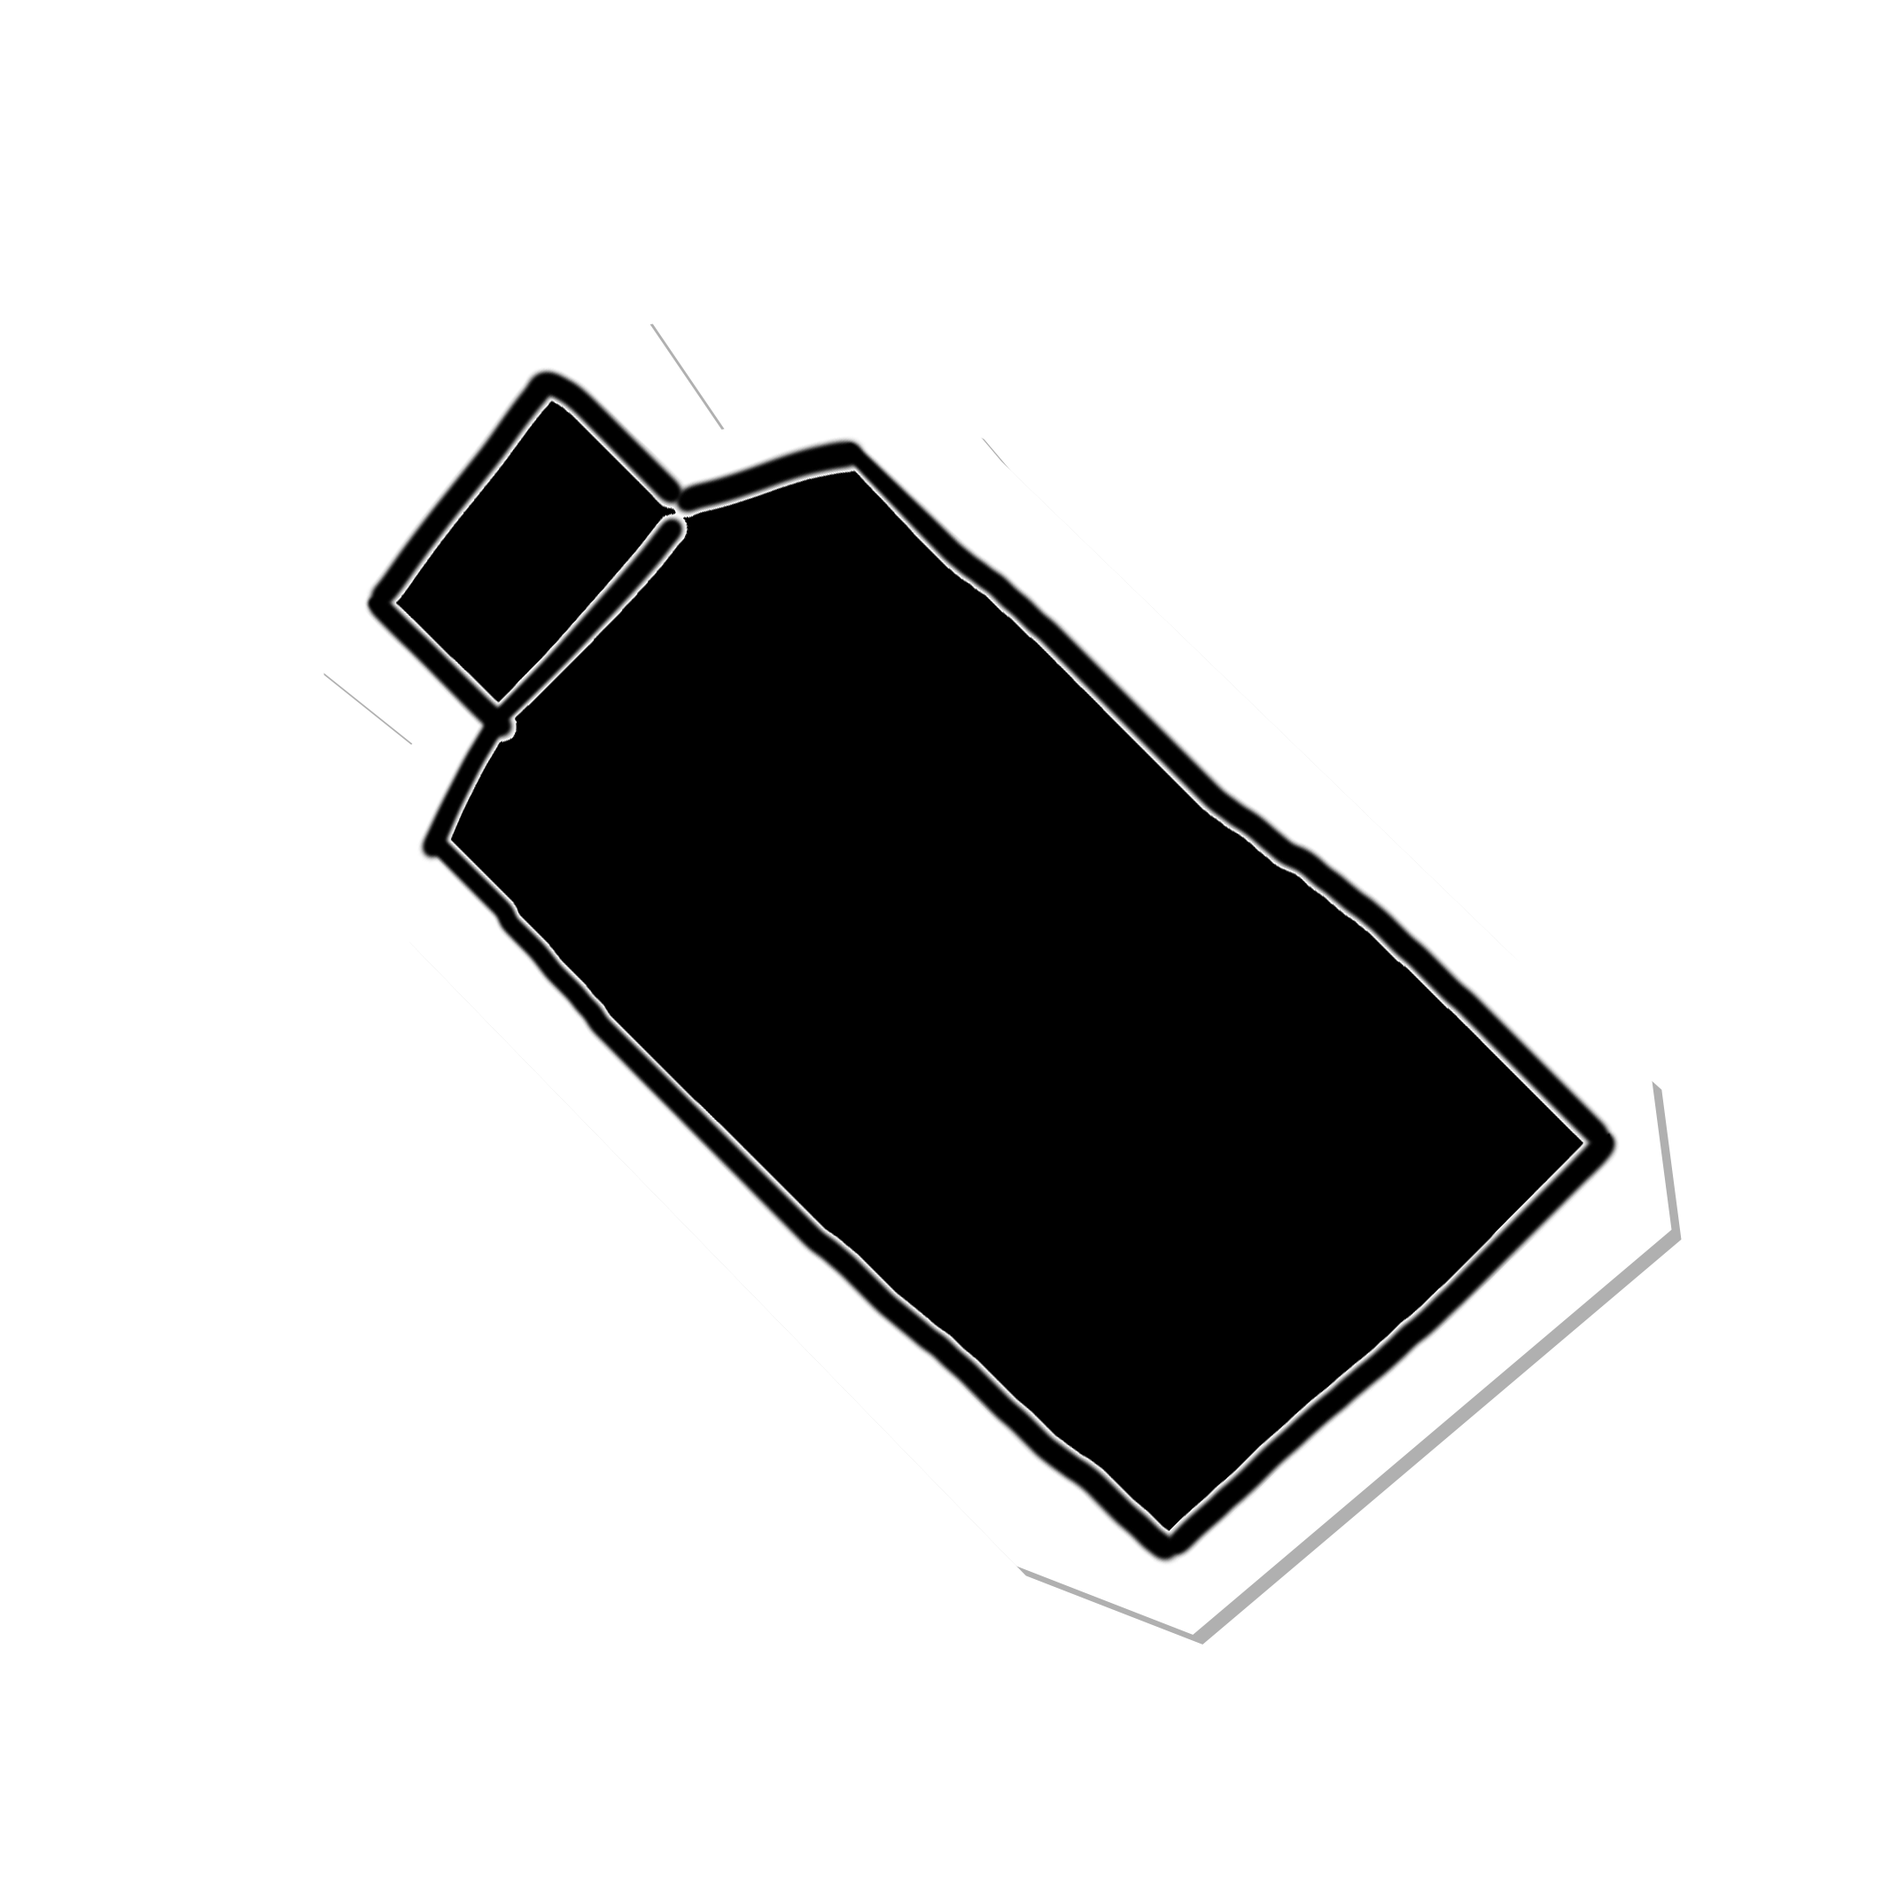
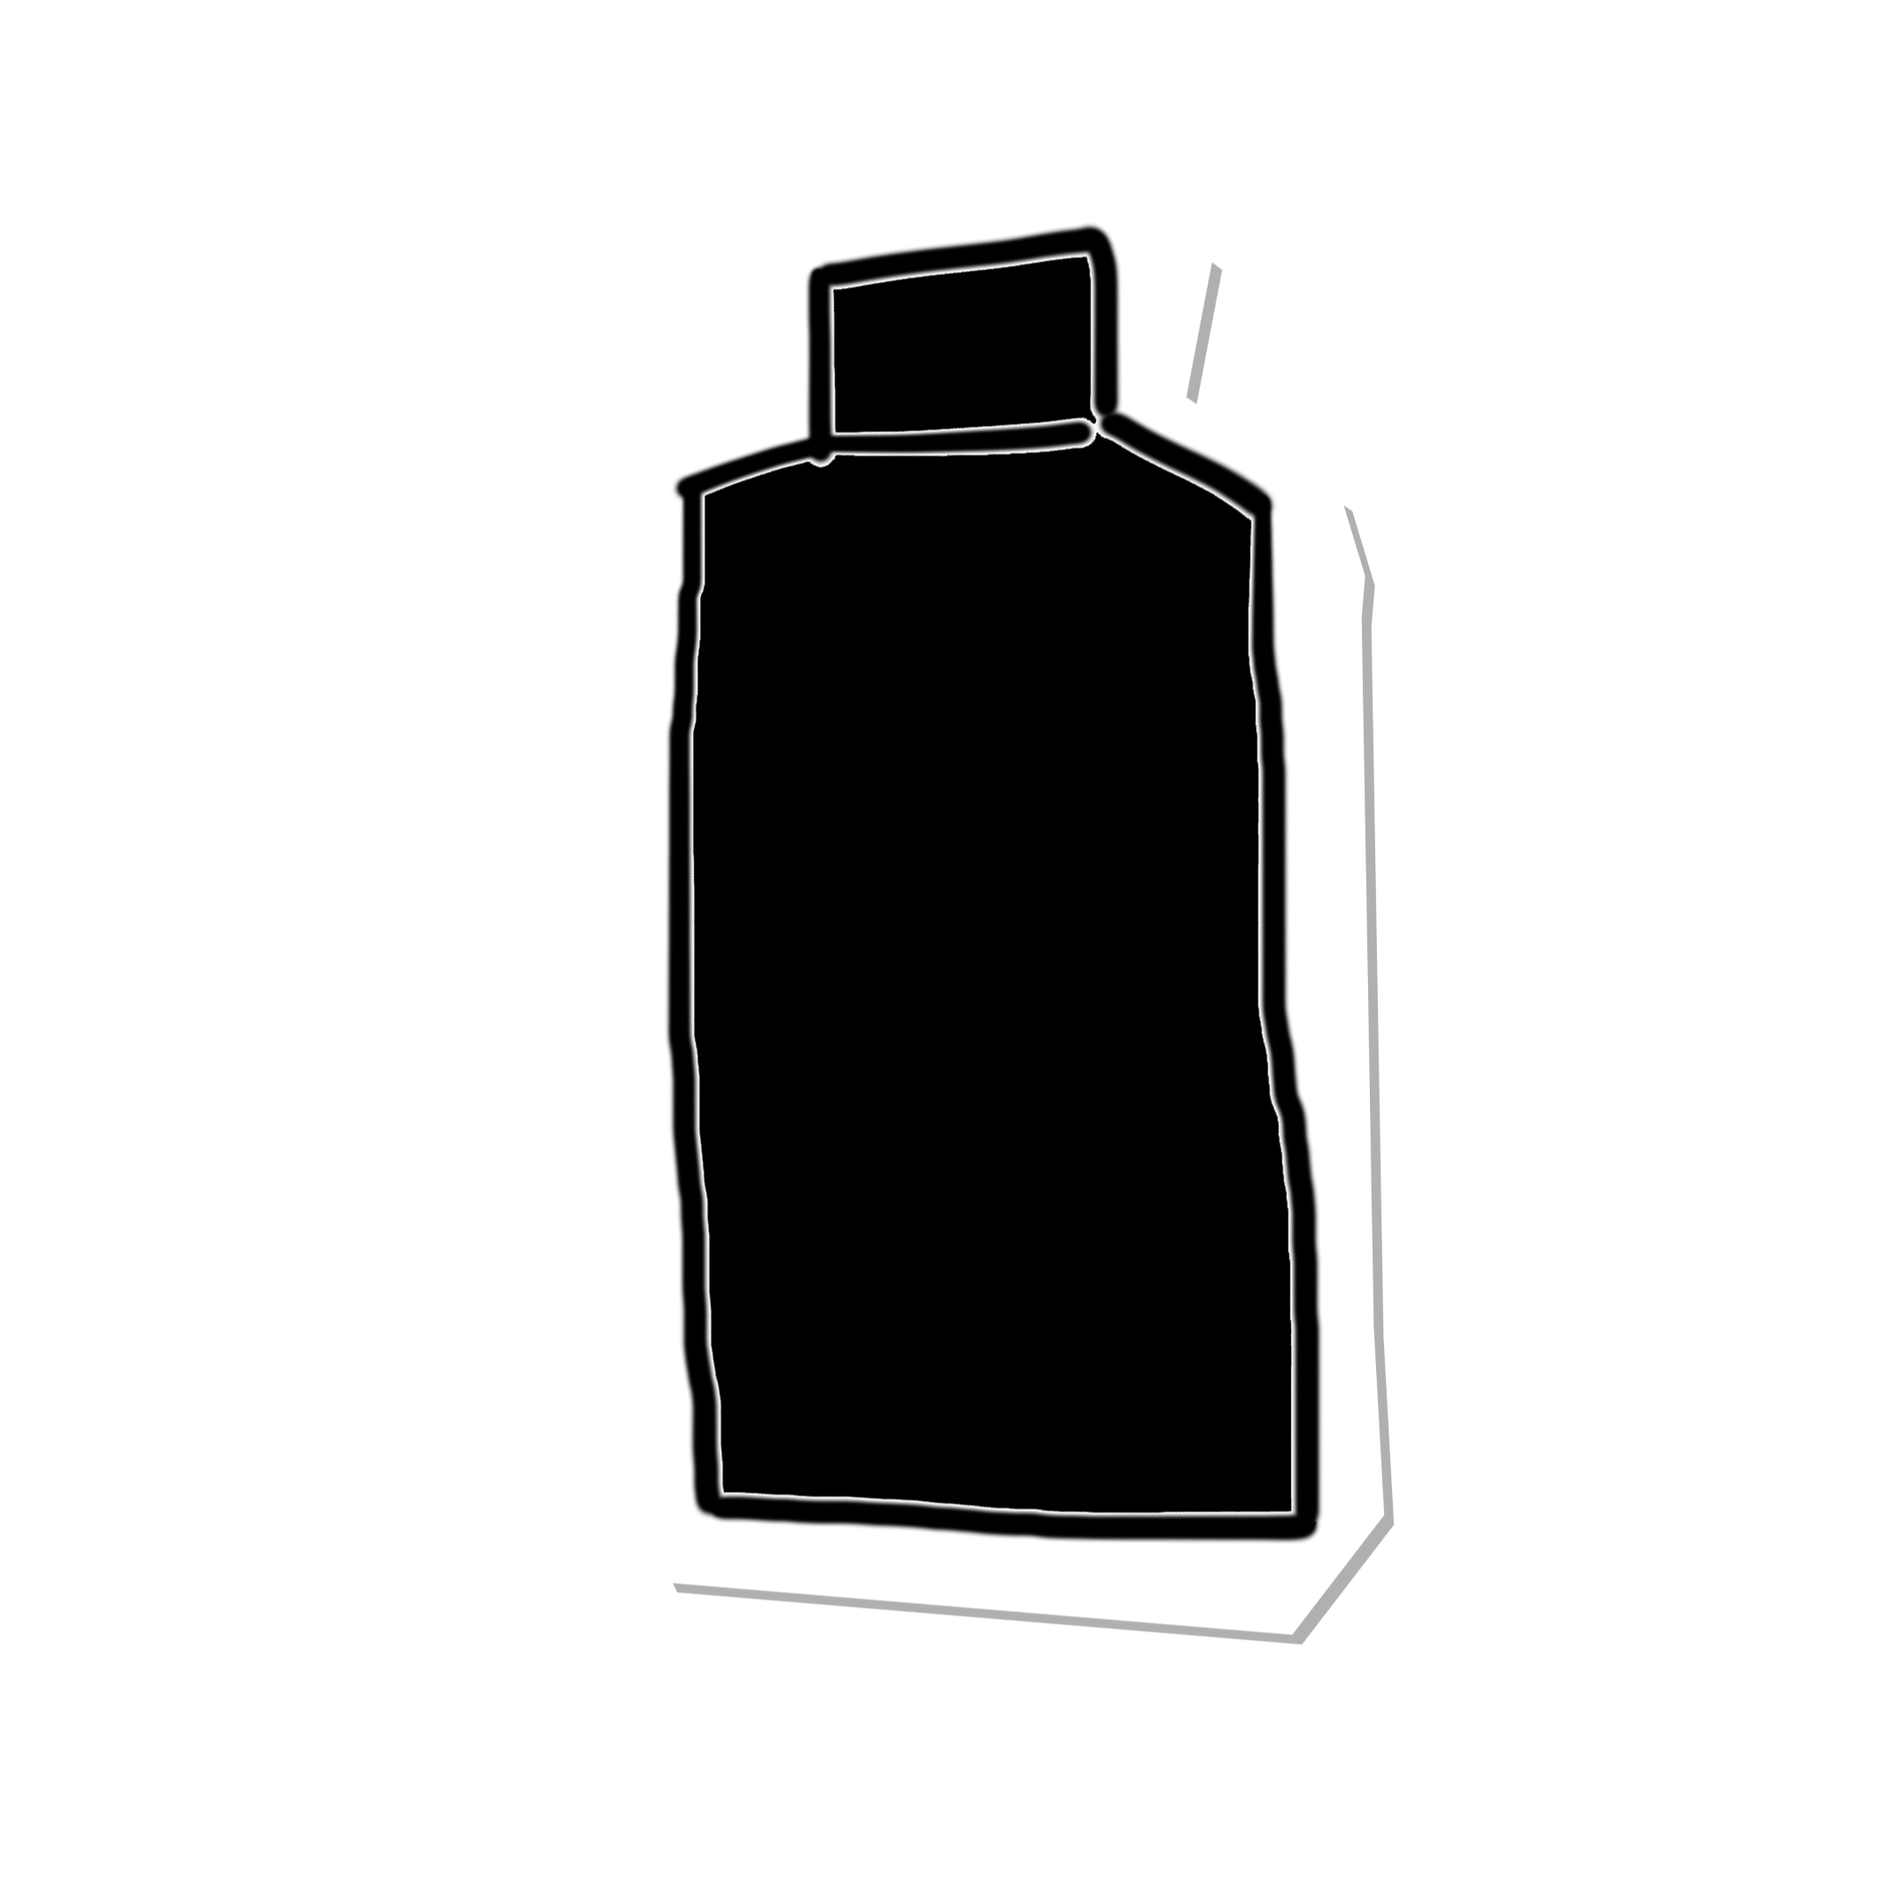
finished look of final UI

Changed region(s): [[0.1857, 0.0928, 0.8973, 0.8664]]

diff --git a/teatime/MainWindow.xaml b/teatime/MainWindow.xaml
@@ -12,28 +12,31 @@
         <Image x:Name="orbits" Height="612" Width="1136" Source="img/orbit-circles.png" Canvas.Left="68" Canvas.Top="60"/>
 
         <Image x:Name="boxy" Height="142" Canvas.Left="565" Canvas.Top="295" Width="142" Source="img/boxy-idle.png"/>
-        <Image x:Name="cursor" Height="142" Canvas.Left="989" Canvas.Top="261" Width="142" RenderTransformOrigin="0.5,0.5" Source="img/tea.png" IsHitTestVisible="False">
-            <Image.RenderTransform>
-                <TransformGroup>
-                    <ScaleTransform/>
-                    <SkewTransform/>
-                    <RotateTransform Angle="45"/>
-                    <TranslateTransform/>
-                </TransformGroup>
-            </Image.RenderTransform>
-        </Image>
+        
         <Image x:Name="btn_s1" Height="32" Canvas.Left="620" Canvas.Top="221" Width="32" Source="img/button-planet.png"/>
         <Image x:Name="btn_s2" Height="32" Canvas.Left="750" Canvas.Top="350" Width="32" Source="img/button-planet.png"/>
         <Image x:Name="btn_s3" Height="32" Canvas.Left="620" Canvas.Top="480" Width="32" Source="img/button-planet.png"/>
         <Image x:Name="btn_s4" Height="32" Canvas.Left="491" Canvas.Top="350" Width="32" Source="img/button-planet.png"/>
+        
         <Image x:Name="btn_m1" Height="32" Canvas.Left="620" Canvas.Top="154" Width="32" Source="img/button-planet.png"/>
         <Image x:Name="btn_m2" Height="32" Canvas.Left="816" Canvas.Top="350" Width="32" Source="img/button-planet.png"/>
         <Image x:Name="btn_m3" Height="32" Canvas.Left="620" Canvas.Top="546" Width="32" Source="img/button-planet.png"/>
         <Image x:Name="btn_m4" Height="32" Canvas.Left="423" Canvas.Top="350" Width="32" Source="img/button-planet.png"/>
+        
         <Image x:Name="btn_l1" Height="32" Canvas.Left="620" Canvas.Top="70" Width="32" Source="img/button-planet.png"/>
         <Image x:Name="btn_l2" Height="32" Canvas.Left="901" Canvas.Top="350" Width="32" Source="img/button-planet.png"/>
         <Image x:Name="btn_l3" Height="32" Canvas.Left="620" Canvas.Top="632" Width="32" Source="img/button-planet.png"/>
         <Image x:Name="btn_l4" Height="32" Canvas.Left="338" Canvas.Top="350" Width="32" Source="img/button-planet.png"/>
 
+        <Image x:Name="cursor" Height="142" Canvas.Left="989" Canvas.Top="261" Width="142" Source="img/tea.png" IsHitTestVisible="False">
+            <Image.RenderTransform>
+                <TransformGroup>
+                    <ScaleTransform/>
+                    <SkewTransform/>
+                    <RotateTransform Angle="0"/>
+                    <TranslateTransform/>
+                </TransformGroup>
+            </Image.RenderTransform>
+        </Image>
     </Canvas>
 </Window>

diff --git a/teatime/MainWindow.xaml.cs b/teatime/MainWindow.xaml.cs
@@ -48,18 +48,23 @@ namespace teatime
           
             holdTime = 0;
 
-            
-
             mainWindow.MouseMove += MainWindow_MouseMove;
             boxy.MouseDown += Boxy_MouseDown;
             boxy.MouseUp += Boxy_MouseUp;
 
             idleTimer.Interval = TimeSpan.FromMilliseconds(1000);
+            BindGuideMouseEvents();
 
         }
 
         private void Boxy_MouseUp(object sender, MouseButtonEventArgs e)
         {
+            Point mousePos = e.GetPosition(this);
+            TransformGroup t = new TransformGroup();
+            t.Children.Add(new RotateTransform(0));
+            t.Children.Add(new TranslateTransform(mousePos.X - Canvas.GetLeft(cursor) - cursor.Width / 4, mousePos.Y - Canvas.GetTop(cursor) - cursor.Height / 4));
+            cursor.RenderTransform = t;
+
             //holdTime = holdTime - (Int32)(DateTime.UtcNow.Subtract(new DateTime(1970, 1, 1))).TotalMilliseconds;
 
             //TODO: drinking animation
@@ -72,11 +77,54 @@ namespace teatime
             if (!started)
             {
                 MakeAllVisible();
+                
             }
 
             // reset all planets
         }
 
+        
+
+        private void MainWindow_MouseMove(object sender, MouseEventArgs e)
+        {
+            
+            Point mousePos = e.GetPosition(this);
+            TranslateTransform transform = new TranslateTransform
+            {
+                X = mousePos.X - Canvas.GetLeft(cursor) - cursor.Width / 4,
+                Y = mousePos.Y - Canvas.GetTop(cursor) - cursor.Height / 4
+            };
+            this.cursor.RenderTransform = transform;
+                
+        }
+
+        private void Boxy_MouseDown(object sender, MouseEventArgs e)
+        {
+            Point mousePos = e.GetPosition(this);
+            teaPouring = true;
+            // holdTime = (Int32)(DateTime.UtcNow.Subtract(new DateTime(1970, 1, 1))).TotalMilliseconds;
+            //clickTimer.Start();
+
+
+            boxy.Source = new BitmapImage(new Uri(@"/img/boxy-pour.png", UriKind.Relative));
+            boxy_status = POURING;
+            TransformGroup t = new TransformGroup();
+            t.Children.Add(new RotateTransform(-45));
+            t.Children.Add(new TranslateTransform(mousePos.X - Canvas.GetLeft(cursor) - cursor.Width / 4, mousePos.Y - Canvas.GetTop(cursor) - cursor.Height / 4));
+            cursor.RenderTransform = t;
+            // play sound of pouring
+            //pouring animation that loops
+        }
+
+        private void UpdatePlanets()
+        {
+
+        }
+
+        private class Planet : Image
+        {
+
+        }
         private void MakeAllVisible()
         {
             space.Visibility = Visibility.Visible;
@@ -98,43 +146,6 @@ namespace teatime
             btn_l4.Visibility = Visibility.Visible;
             started = true;
         }
-
-        private void MainWindow_MouseMove(object sender, MouseEventArgs e)
-        {
-            Point mousePos = e.GetPosition(this);
-            TranslateTransform transform = new TranslateTransform
-            {
-                X = mousePos.X - Canvas.GetLeft(cursor) - cursor.Width / 4,
-                Y = mousePos.Y - Canvas.GetTop(cursor) - cursor.Height / 4
-            };
-            this.cursor.RenderTransform = transform;
-        }
-
-       
-        
-
-        private void Boxy_MouseDown(object sender, MouseEventArgs e)
-        {
-            teaPouring = true;
-            // holdTime = (Int32)(DateTime.UtcNow.Subtract(new DateTime(1970, 1, 1))).TotalMilliseconds;
-            //clickTimer.Start();
-
-
-            boxy.Source = new BitmapImage(new Uri(@"/img/boxy-pour.png", UriKind.Relative));
-            boxy_status = POURING;
-            //continuously play sound of pouring
-        }
-
-        private void UpdatePlanets()
-        {
-
-        }
-
-        private class Planet : Image
-        {
-
-        }
-
         private void HideElements()
         {
             space.Visibility = Visibility.Hidden;
@@ -154,6 +165,160 @@ namespace teatime
             btn_l2.Visibility = Visibility.Hidden;
             btn_l3.Visibility = Visibility.Hidden;
             btn_l4.Visibility = Visibility.Hidden;
+        }
+
+        private void BindGuideMouseEvents()
+        {
+            btn_s1.MouseEnter += Btn_s1_MouseEnter;
+            btn_s2.MouseEnter += Btn_s2_MouseEnter;
+            btn_s3.MouseEnter += Btn_s3_MouseEnter;
+            btn_s4.MouseEnter += Btn_s4_MouseEnter;
+
+            btn_m1.MouseEnter += Btn_m1_MouseEnter;
+            btn_m2.MouseEnter += Btn_m2_MouseEnter;
+            btn_m3.MouseEnter += Btn_m3_MouseEnter;
+            btn_m4.MouseEnter += Btn_m4_MouseEnter;
+
+            btn_l1.MouseEnter += Btn_l1_MouseEnter;
+            btn_l2.MouseEnter += Btn_l2_MouseEnter;
+            btn_l3.MouseEnter += Btn_l3_MouseEnter;
+            btn_l4.MouseEnter += Btn_l4_MouseEnter;
+
+            btn_s1.MouseLeave += Btn_s1_MouseLeave;
+            btn_s2.MouseLeave += Btn_s2_MouseLeave;
+            btn_s3.MouseLeave += Btn_s3_MouseLeave;
+            btn_s4.MouseLeave += Btn_s4_MouseLeave;
+
+            btn_m1.MouseLeave += Btn_m1_MouseLeave;
+            btn_m2.MouseLeave += Btn_m2_MouseLeave;
+            btn_m3.MouseLeave += Btn_m3_MouseLeave;
+            btn_m4.MouseLeave += Btn_m4_MouseLeave;
+
+            btn_l1.MouseLeave += Btn_l1_MouseLeave;
+            btn_l2.MouseLeave += Btn_l2_MouseLeave;
+            btn_l3.MouseLeave += Btn_l3_MouseLeave;
+            btn_l4.MouseLeave += Btn_l4_MouseLeave;
+
+        }
+
+        private void Btn_l4_MouseLeave(object sender, MouseEventArgs e)
+        {
+            btn_l4.Source = new BitmapImage(new Uri(@"/img/button-planet.png", UriKind.Relative));
+        }
+
+        private void Btn_l3_MouseLeave(object sender, MouseEventArgs e)
+        {
+            btn_l3.Source = new BitmapImage(new Uri(@"/img/button-planet.png", UriKind.Relative));
+        }
+
+        private void Btn_l2_MouseLeave(object sender, MouseEventArgs e)
+        {
+            btn_l2.Source = new BitmapImage(new Uri(@"/img/button-planet.png", UriKind.Relative));
+        }
+
+        private void Btn_l1_MouseLeave(object sender, MouseEventArgs e)
+        {
+            btn_l1.Source = new BitmapImage(new Uri(@"/img/button-planet.png", UriKind.Relative));
+        }
+
+        private void Btn_m4_MouseLeave(object sender, MouseEventArgs e)
+        {
+            btn_m4.Source = new BitmapImage(new Uri(@"/img/button-planet.png", UriKind.Relative));
+        }
+
+        private void Btn_m3_MouseLeave(object sender, MouseEventArgs e)
+        {
+            btn_m3.Source = new BitmapImage(new Uri(@"/img/button-planet.png", UriKind.Relative));
+        }
+
+        private void Btn_m2_MouseLeave(object sender, MouseEventArgs e)
+        {
+            btn_m2.Source = new BitmapImage(new Uri(@"/img/button-planet.png", UriKind.Relative));
+        }
+
+        private void Btn_m1_MouseLeave(object sender, MouseEventArgs e)
+        {
+            btn_m1.Source = new BitmapImage(new Uri(@"/img/button-planet.png", UriKind.Relative));
+        }
+
+        private void Btn_s4_MouseLeave(object sender, MouseEventArgs e)
+        {
+            btn_s4.Source = new BitmapImage(new Uri(@"/img/button-planet.png", UriKind.Relative));
+        }
+
+        private void Btn_s3_MouseLeave(object sender, MouseEventArgs e)
+        {
+            btn_s3.Source = new BitmapImage(new Uri(@"/img/button-planet.png", UriKind.Relative));
+        }
+
+        private void Btn_s2_MouseLeave(object sender, MouseEventArgs e)
+        {
+            btn_s2.Source = new BitmapImage(new Uri(@"/img/button-planet.png", UriKind.Relative));
+        }
+
+        private void Btn_s1_MouseLeave(object sender, MouseEventArgs e)
+        {
+            btn_s1.Source = new BitmapImage(new Uri(@"/img/button-planet.png", UriKind.Relative));
+        }
+
+        private void Btn_l3_MouseEnter(object sender, MouseEventArgs e)
+        {
+            btn_l3.Source = new BitmapImage(new Uri(@"/img/button-planet-hover.png", UriKind.Relative));
+        }
+
+        private void Btn_l4_MouseEnter(object sender, MouseEventArgs e)
+        {
+            btn_l4.Source = new BitmapImage(new Uri(@"/img/button-planet-hover.png", UriKind.Relative));
+        }
+
+        private void Btn_l2_MouseEnter(object sender, MouseEventArgs e)
+        {
+            btn_l2.Source = new BitmapImage(new Uri(@"/img/button-planet-hover.png", UriKind.Relative));
+        }
+
+        private void Btn_l1_MouseEnter(object sender, MouseEventArgs e)
+        {
+            btn_l1.Source = new BitmapImage(new Uri(@"/img/button-planet-hover.png", UriKind.Relative));
+        }
+
+        private void Btn_m4_MouseEnter(object sender, MouseEventArgs e)
+        {
+            btn_m4.Source = new BitmapImage(new Uri(@"/img/button-planet-hover.png", UriKind.Relative));
+        }
+
+        private void Btn_s4_MouseEnter(object sender, MouseEventArgs e)
+        {
+            btn_s4.Source = new BitmapImage(new Uri(@"/img/button-planet-hover.png", UriKind.Relative));
+        }
+
+        private void Btn_s3_MouseEnter(object sender, MouseEventArgs e)
+        {
+            btn_s3.Source = new BitmapImage(new Uri(@"/img/button-planet-hover.png", UriKind.Relative));
+        }
+
+        private void Btn_m2_MouseEnter(object sender, MouseEventArgs e)
+        {
+            btn_m2.Source = new BitmapImage(new Uri(@"/img/button-planet-hover.png", UriKind.Relative));
+        }
+
+        private void Btn_m3_MouseEnter(object sender, MouseEventArgs e)
+        {
+            btn_m3.Source = new BitmapImage(new Uri(@"/img/button-planet-hover.png", UriKind.Relative));
+        }
+
+        private void Btn_m1_MouseEnter(object sender, MouseEventArgs e)
+        {
+            btn_m1.Source = new BitmapImage(new Uri(@"/img/button-planet-hover.png", UriKind.Relative));
+        }
+
+        private void Btn_s2_MouseEnter(object sender, MouseEventArgs e)
+        {
+            btn_s2.Source = new BitmapImage(new Uri(@"/img/button-planet-hover.png", UriKind.Relative));
+        }
+
+        private void Btn_s1_MouseEnter(object sender, MouseEventArgs e)
+        {
+            btn_s1.Source = new BitmapImage(new Uri(@"/img/button-planet-hover.png", UriKind.Relative));
         }
     }
 }
